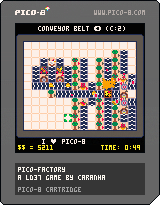
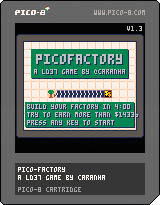
Updated pico-factory webpage - new links, - new hall of fame - updated .p8.png cartridge

diff --git a/index.html b/index.html
@@ -10,6 +10,9 @@
 
 h1 { color: white; }
 
+div.score {padding-top: .3cm; padding-bottom: .1cm; text-decoration: underline; }
+img.screenshot { height:350; width:350;}
+
 div.text { color: white; text-align: left; padding-top: 1cm; }
 li { padding-bottom: 3px;}
 .text a:link {color: darkgray;}
@@ -161,23 +164,26 @@ canvas{
       
    <p><h3>Links:</h3></p>
    <ul>
-   <li> <a href="https://ldjam.com">Ludum Dare</a>
-   <li> <a href="http://www.lexaloffle.com/pico-8.php">Pico-8</a>
-   <li> <a href="https://github.com/caranha/pico_playground">Source Code</a>
-   <li> <a href="http://claus.castelodelego.org">My blog</a>
+   <li> Visit <a href="http://ludumdare.com/compo/ludum-dare-37/?action=preview&uid=7847">Ludum Dare entry page</a> for Pico Factory.
+   <li> Play the <a href="http://www.lexaloffle.com/bbs/?tid=28192">newest version</a> at the Pico-8 bbs.
+   <li> Check out the <a href="https://github.com/caranha/pico_playground">source Code</a>.
+   <li> Start programming with <a href="http://www.lexaloffle.com/pico-8.php">Pico-8</a>.
+   <li> Learn more about <a href="https://ldjam.com">Ludum Dare</a>.
+   <li> Learn about me on <a href="http://claus.castelodelego.org">my blog</a> or <a href="http://twitter.com/caranha">my Twitter page</a>.
    </ul>
 
    <p><h3>Hall of Fame!</h3></p>
 
-   <ol>
-   <li>enargy, from PICO8 BBS: $10662
+   <center>
+   
+   <div class="score">toycrab: $14342</div>
+   
+   <img class="screenshot" src="factory_img/toycrab2.png"><br>
 
-   <img src="factory_img/allbread.png"><br>
-   
-   <li>toycrab, from PICO8 BBS: $7877
-   
-   <img src="factory_img/toycrab.png"><br>
-   </ol>
+   <div class="score">enargy: $10662</div>
+
+   <img class="screenshot" src="factory_img/enargy.png"><br>
+   </center>
 
    </div>
 
